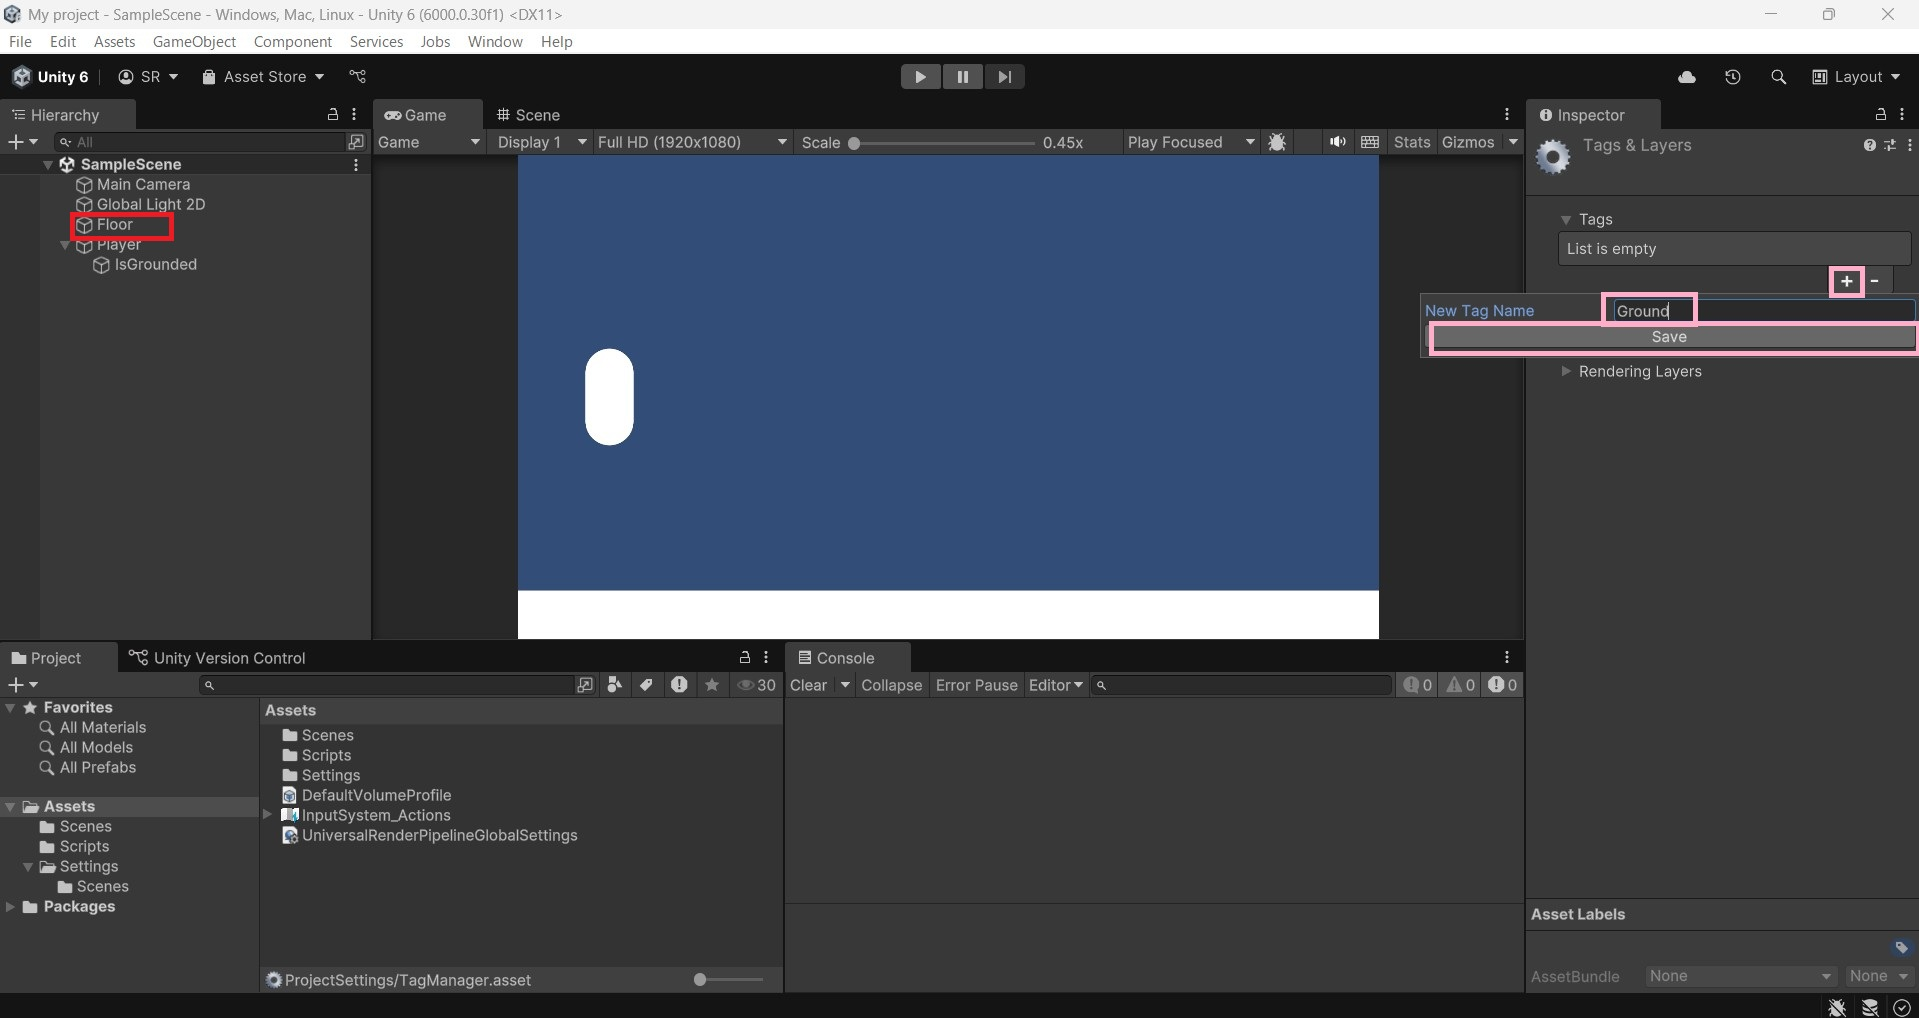
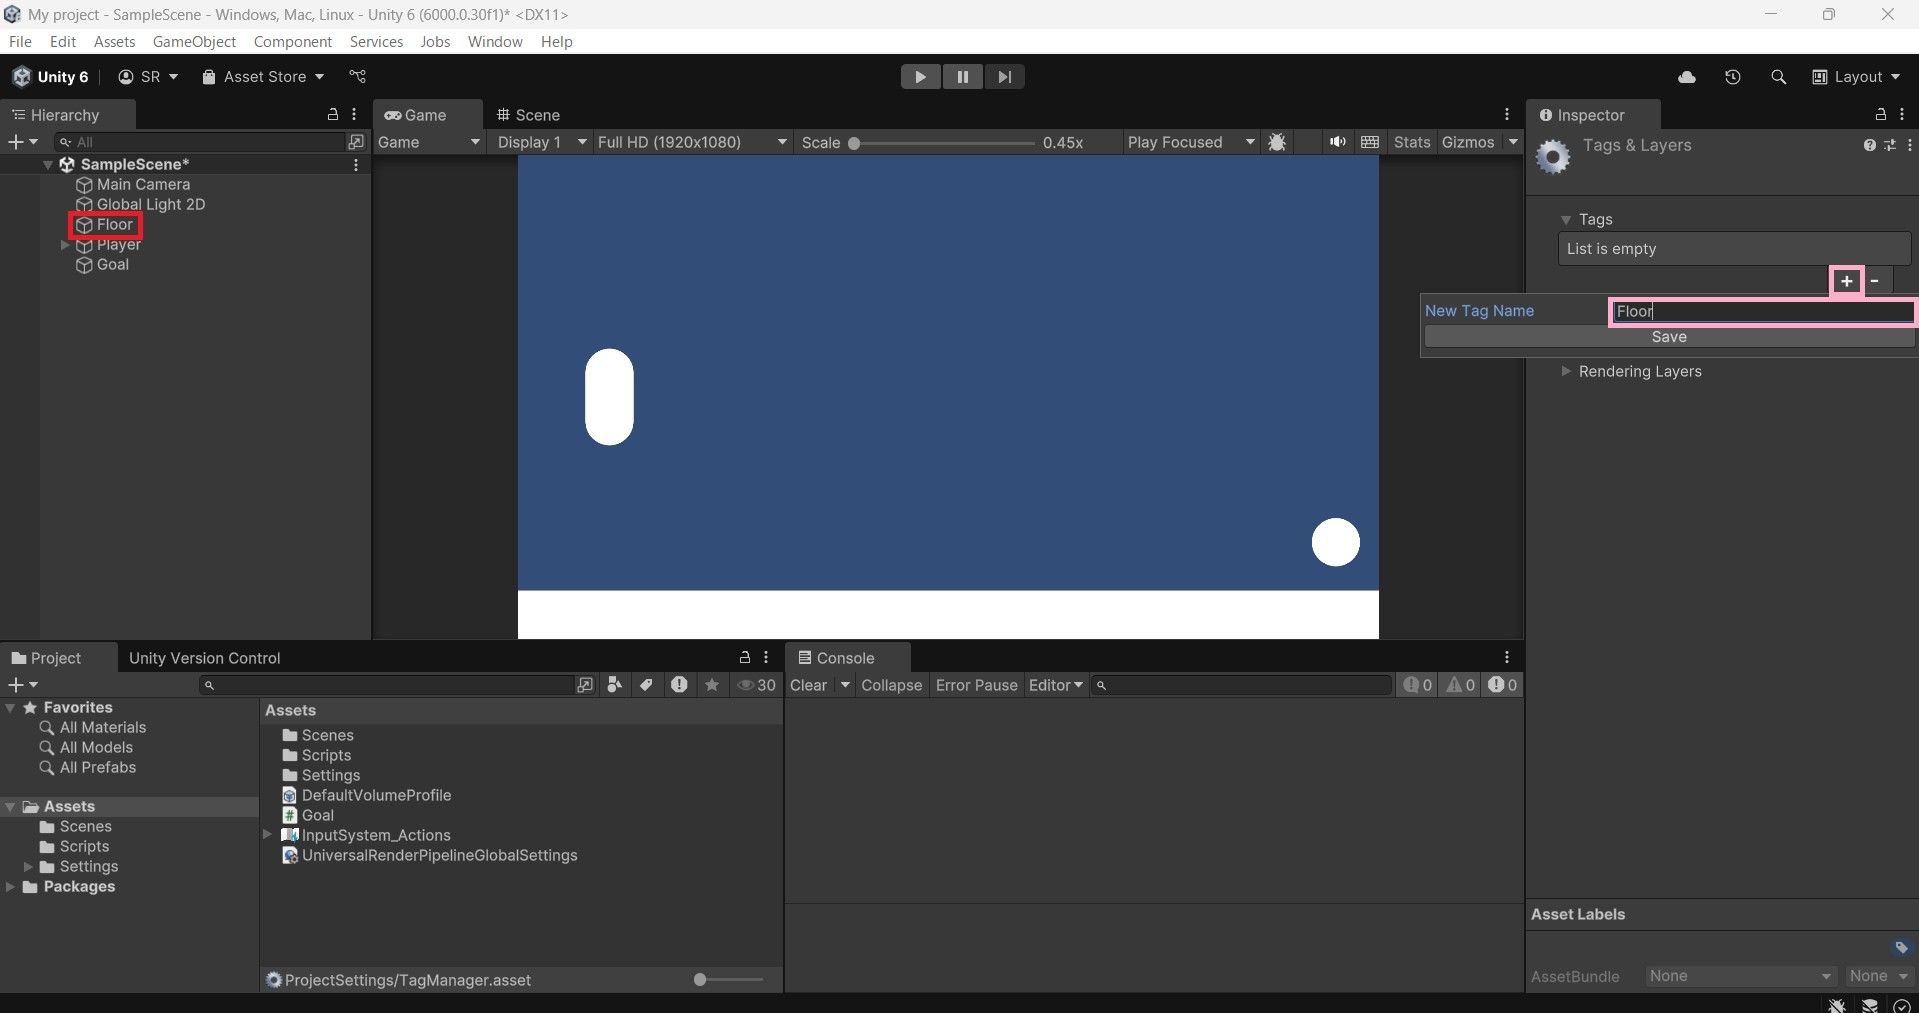
更新のコミット

diff --git a/HTML/Unity/Unity.html b/HTML/Unity/Unity.html
@@ -65,6 +65,11 @@
 
     <div class="main">
         <h1>初心者のためのUnityの使い方完全ガイド</h1>
+        <p>まずは<strong>事前準備</strong>ができているかチェック！<br><strong>①Visual Studio ②Unity
+                Hub</strong><br>この二つがインストールできている方は、記事を読んで頂けたらと思います！
+            <br>まだの方は<u>このページ左上からインストール</u>頂けます！
+        </p>
+
 
         <h2>Unity Hubにログインをしよう！</h2>
         <img src="../../Images/Unity/Project1/Unity1.jpeg" class="unity-img" loading="lazy">
@@ -83,11 +88,11 @@
 
         <h2>ゲーム作成①</h2>
         <img src="../../Images/Unity/Project1/Unity4.jpeg" class="unity-img" loading="lazy">
-        <p>画像と同じ画面になっていれば大丈夫です！<br>赤い部分で表示領域を調整できます！</p>
+        <p>画像と同じ画面になっていれば大丈夫です！<br><strong>赤い部分で表示領域を調整できます！</strong></p>
 
         <h2>スクリプト作成</h2>
         <img src="../../Images/Unity/Project1/Unity5.jpeg" class="unity-img" loading="lazy">
-        <p>左下の[Assets]を選択した状態で右クリックでスクリプトを作成していきます！</p>
+        <p>左下の<strong>[Assets]</strong>を選択した状態で右クリックでスクリプトを作成していきます！</p>
 
         <h2>スクリプト名(ファイル)を指定</h2>
         <img src="../../Images/Unity/Project1/Unity6.jpeg" class="unity-img" loading="lazy">
@@ -100,7 +105,7 @@
 
         <h2>コンポーネント作成</h2>
         <img src="../../Images/Unity/Project1/Unity8.jpeg" class="unity-img" loading="lazy">
-        <p>ピンク枠、赤枠の部分を開いたファイルに記述してください！</p>
+        <p>開いたファイルにピンク枠、赤枠の部分を記述してください！</p>
 
         <h2>ゲームオブジェクト作成</h2>
         <img src="../../Images/Unity/Project1/Unity9.jpeg" class="unity-img" loading="lazy">
@@ -116,7 +121,7 @@
 
         <h2>ゲーム実行</h2>
         <img src="../../Images/Unity/Project1/Unity12.jpeg" class="unity-img" loading="lazy">
-        <p>上部の[実行ボタン]を押して実際に操作をしてみましょう！上手くできていれば、WASD or 矢印キーで動きます！</p>
+        <p>上部の<strong>[実行ボタン]</strong>を押して実際に操作をしてみましょう！上手くできていれば、WASD or 矢印キーで動きます！</p>
 
         <h2>ゲームオブジェクトの削除</h2>
         <img src="../../Images/Unity/Project1/Unity13.jpeg" class="unity-img" loading="lazy">
@@ -132,38 +137,48 @@
 
         <h2>Playerの作成</h2>
         <img src="../../Images/Unity/Project1/Unity16.jpeg" class="unity-img" loading="lazy">
-        <p>次は[Capsule]を配置して[Capsule Collider 2D]と[Rigidbody 2D]をアタッチしましょう！</p>
+        <p>次は<strong>[Capsule]</strong>を配置して<strong>[Capsule Collider 2D]</strong>と<strong>[Rigidbody
+                2D]</strong>をアタッチしましょう！</p>
 
         <h2>Playerコンポーネントの作成</h2>
         <img src="../../Images/Unity/Project1/Unity17.jpeg" class="unity-img" loading="lazy">
-        <p>Playerを選択しAdd Componentで[PlayerController]と名前をつけたスクリプトを作成します！</p>
+        <p>Playerを選択しAdd Componentで<strong>[PlayerController]</strong>と名前をつけたスクリプトを作成します！</p>
 
         <h2>スクリプトの編集</h2>
         <img src="../../Images/Unity/Project1/Unity18.jpeg" class="unity-img" loading="lazy">
-        <p>画像のようになっていれば大丈夫です！<br>問題が良ければ以下のコードになるように[PlayerController]を編集してください！</p>
-
-        <code>a = 1;</code>
+        <p>画像のようになっていれば大丈夫です！<br>問題が良ければ以下のコードになるように<strong>[PlayerController]</strong>を編集してください！</p>
+        <a href="../../Provide/Scrips/PlayerController.cs" target="_blank">PlayerController.cs</a>
 
         <h2>接地判定をし、動きの制御を実装しましょう！</h2>
         <img src="../../Images/Unity/Project1/Unity19.jpeg" class="unity-img" loading="lazy">
+        <p>Playerを選択した状態で右クリックを押して、<strong>[Create Enpty]</strong>でオブジェクトを生成しましょう！<br>追加したオブジェクトに<strong>[Box Collider
+                2D]</strong>をアタッチしましょう！<br>※追加したオブジェクトを「Playerの子オブジェクト」と言います。</p>
 
-        <h2>ゲーム作成⑱</h2>
+        <h2>タグ設定&追加</h2>
         <img src="../../Images/Unity/Project1/Unity20.jpeg" class="unity-img" loading="lazy">
+        <p>続いて[Player]と[Floor]の当たり判定を実装していきます！<br>[Floor]を選択して右側の[Tag]のドロップダウンから[Add Tag...]を押しましょう！</p>
 
-        <h2>ゲーム作成⑲</h2>
+        <h2>タグ設定&追加</h2>
         <img src="../../Images/Unity/Project1/Unity21.jpeg" class="unity-img" loading="lazy">
+        <p>開いたメニューの<strong>[＋]</strong>ボタンを押して「Ground」と入力して<strong>[Save]</strong>を押しましょう！</p>
 
-        <h2>ゲーム作成⑳</h2>
+        <h2>タグ設定&追加</h2>
         <img src="../../Images/Unity/Project1/Unity22.jpeg" class="unity-img" loading="lazy">
+        <p><strong>[Floor]</strong>を選択して右上の<strong>[Tag]</strong>から<strong>[Floor]</strong>を選択しましょう！<br>TagがFloorに変わっていればOKです！</p>
 
-        <h2>接地判定</h2>
+        <h2>接地判定実装</h2>
         <img src="../../Images/Unity/Project1/Unity23.jpeg" class="unity-img" loading="lazy">
+        <p>Playerの子オブジェクトに<strong>[Box Collider 2D]</strong>と以下のコンポーネントを作成＆アタッチをしましょう！</p>
+        <a href="../../Provide/Scrips/Checker.cs" target="_blank">Checker.cs</a>
 
-        <h2>当たり判定</h2>
+        <h2>当たり判定の設定</h2>
         <img src="../../Images/Unity/Project1/Unity24.jpeg" class="unity-img" loading="lazy">
+        <p>追加した<strong>[Box Collider 2D]</strong>の設定を画像のように変更しましょう！<br>※画面上部のタブを<strong>[Scene]</strong>に切り替え<strong>[Edit Collider]</strong>の右側のボタンを押すと当たり判定が確認できます。</p>
 
-        <h2>完成</h2>
+        <h2>仕上げ</h2>
         <img src="../../Images/Unity/Project1/Unity25.jpeg" class="unity-img" loading="lazy">
+        <p></p>
+
         <p>以上。これでひとまずゲームを作る事ができました！</br>
             次はゲームを拡張するためのノウハウを書いていこうと思います！</br>
             それでは、お疲れ様でした！
